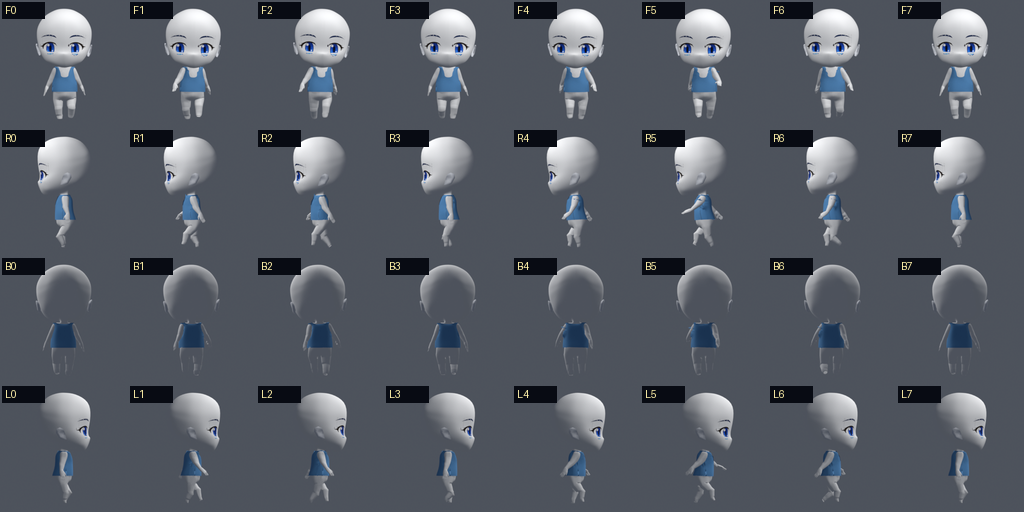
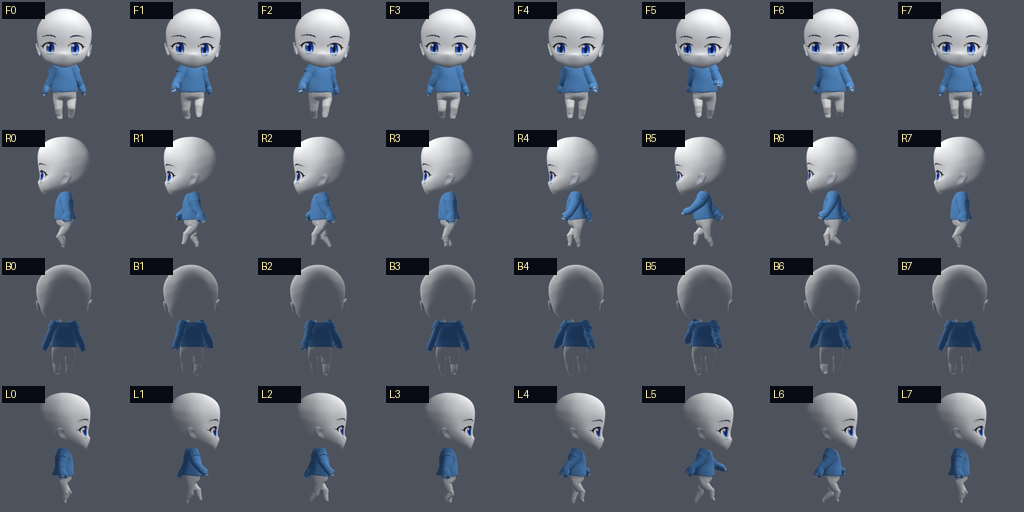
start short sleeve clothing experiment

diff --git a/tools/build_preview_assets.py b/tools/build_preview_assets.py
@@ -169,7 +169,7 @@ CLOTHING_REVIEW_CANDIDATES = (
     {
         "slug": "garmentcode_actor_proxy_current",
         "label": "当前实验 / Clean Render Garment + Physics Proxy",
-        "root": ROOT / "prototype/test_output/garmentcode_proxy_render_pair_current",
+        "root": ROOT / "prototype/test_output/clothes_next_short_sleeve_v1",
         "status": "当前实验",
         "note": "保留 GarmentCode 物理代理，独立生成规则四边面无袖 Render Garment（放大 U 型领口、前后肩带连接、侧缝、闭合下摆），再通过 Surface Deform 跟随 5,369 顶点 Animation Proxy；条带和侧面缺口已消除，仍需审核肩带贴合和动作帧。下一次实验会覆盖它。",
     },
@@ -327,11 +327,11 @@ def copy_clothing_review_assets() -> list[dict[str, object]]:
             stills.append(target.relative_to(OUTPUT).as_posix())
         contact_sheet = destination / ("front_back.png" if source_frame_names else "4way_8frames.png")
         if slug == "garmentcode_actor_proxy_current":
-            candidate_label = "Current experiment / demo-style bind-pose tank + Surface Deform"
+            candidate_label = "Current experiment / Actor-derived short sleeve v1"
             candidate_note = (
-                "Current review candidate: compact demo-style open-hem sleeveless shell authored in the frame-1 bind pose, "
-                "Catmull-Clark subdivision, and Surface Deform to the Animation Proxy. Render clearance is 0.035 m; the fit "
-                "detector passes shoulder placement, back boundary, hem penetration, body clearance, and manifold checks."
+                "Current review candidate: Actor-derived shirt body plus independently bone-driven upper-arm sleeves. "
+                "This is the first short-sleeve topology experiment; it is review_required and does not replace the saved "
+                "sleeveless baseline until sleeve cuff, armpit, back integrity, and movement checks pass."
             )
         else:
             candidate_label = candidate["label"]

diff --git a/docs/CLOTHES_NEXT_MILESTONE_PLAN_2026-08-06.md b/docs/CLOTHES_NEXT_MILESTONE_PLAN_2026-08-06.md
@@ -94,3 +94,15 @@ Actor 适配、Surface Deform、四方向八动作帧渲染和适配检测，但
 
 当前开始执行“1. 短袖上衣”。第一轮只验证短袖袖筒的骨骼跟随、袖口位置和
 腋下连续性；无袖衣身参数保持不变。
+
+## 短袖实验 v1 记录
+
+输出目录：`prototype/test_output/clothes_next_short_sleeve_v1/`
+
+- 输入：Actor V1 原始 Blender 文件；
+- 衣身范围：`bottom_z=0.775`、`top_z=1.47`；
+- 袖筒：上臂骨骼驱动，`sleeve_fraction=0.45`；
+- 表面余量：`clearance=0.050 m`；
+- 当前观察：袖筒能够跟随上臂，首轮仍需人工确认袖口是否避开手部、腋下是否
+  连续、背面是否过暗；
+- 状态：`review_required`，不替换已保存的无袖基线，也不进入随机池。
